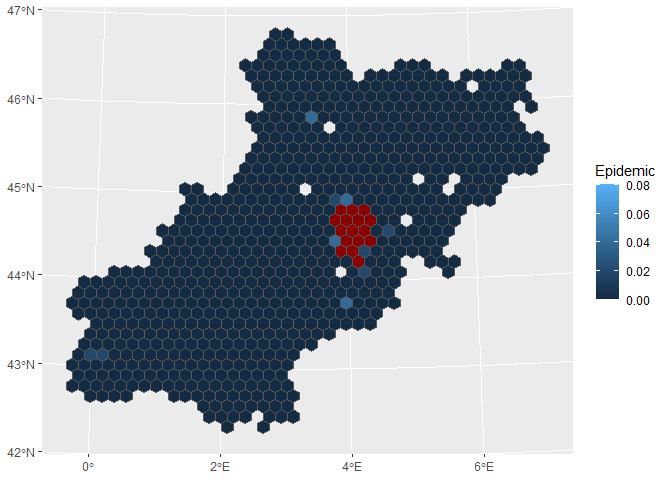
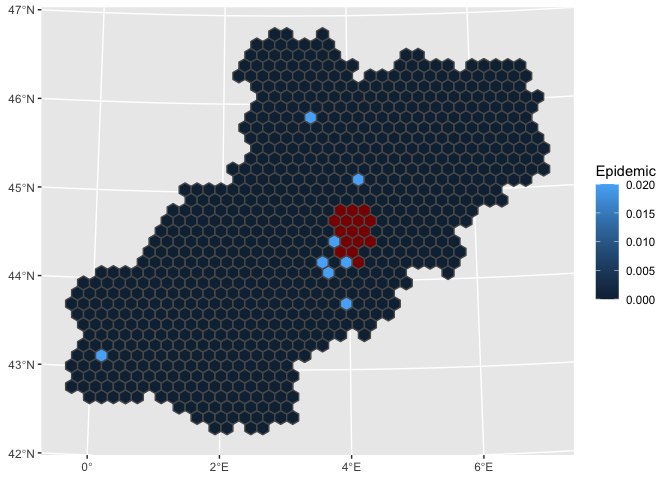
Updated SimsOut Code

diff --git a/Code/R/SimsOut.md b/Code/R/SimsOut.md
@@ -96,7 +96,7 @@ Hx_sim <- Hx_sim %>%
 
 Hx %>%
   left_join(Hx_sim, by = 'idhex') %>%
-  filter(!is.na(Pop)) %>%
+  # filter(!is.na(Pop)) %>%
   mutate(Epidemic = ifelse(is.na(cases), Epidemic, 0)/50,
          index_case = ifelse(is.na(cases), NA, 1)) %>%
   ggplot() +
@@ -141,7 +141,7 @@ Hx_sim01 <- Hx_sim01 %>%
 
 Hx %>%
   left_join(Hx_sim01, by = 'idhex') %>%
-  filter(!is.na(Pop)) %>%
+  # filter(!is.na(Pop)) %>%
   mutate(Epidemic = ifelse(is.na(cases), Epidemic, 0)/50,
          index_case = ifelse(is.na(cases), NA, 1)) %>%
   ggplot() +
@@ -194,7 +194,7 @@ Hx_sim02 <- Hx_sim02 %>%
 
 Hx %>%
   left_join(Hx_sim02, by = 'idhex') %>%
-  filter(!is.na(Pop)) %>%
+  # filter(!is.na(Pop)) %>%
   mutate(Epidemic = ifelse(is.na(cases), Epidemic, 0)/50,
          index_case = ifelse(is.na(cases), NA, 1)) %>%
   ggplot() +
@@ -247,7 +247,7 @@ Hx_sim03 <- Hx_sim03 %>%
 
 Hx %>%
   left_join(Hx_sim03, by = 'idhex') %>%
-  filter(!is.na(Pop)) %>%
+  # filter(!is.na(Pop)) %>%
   mutate(Epidemic = ifelse(is.na(cases), Epidemic, 0)/50,
          index_case = ifelse(is.na(cases), NA, 1)) %>%
   ggplot() +
